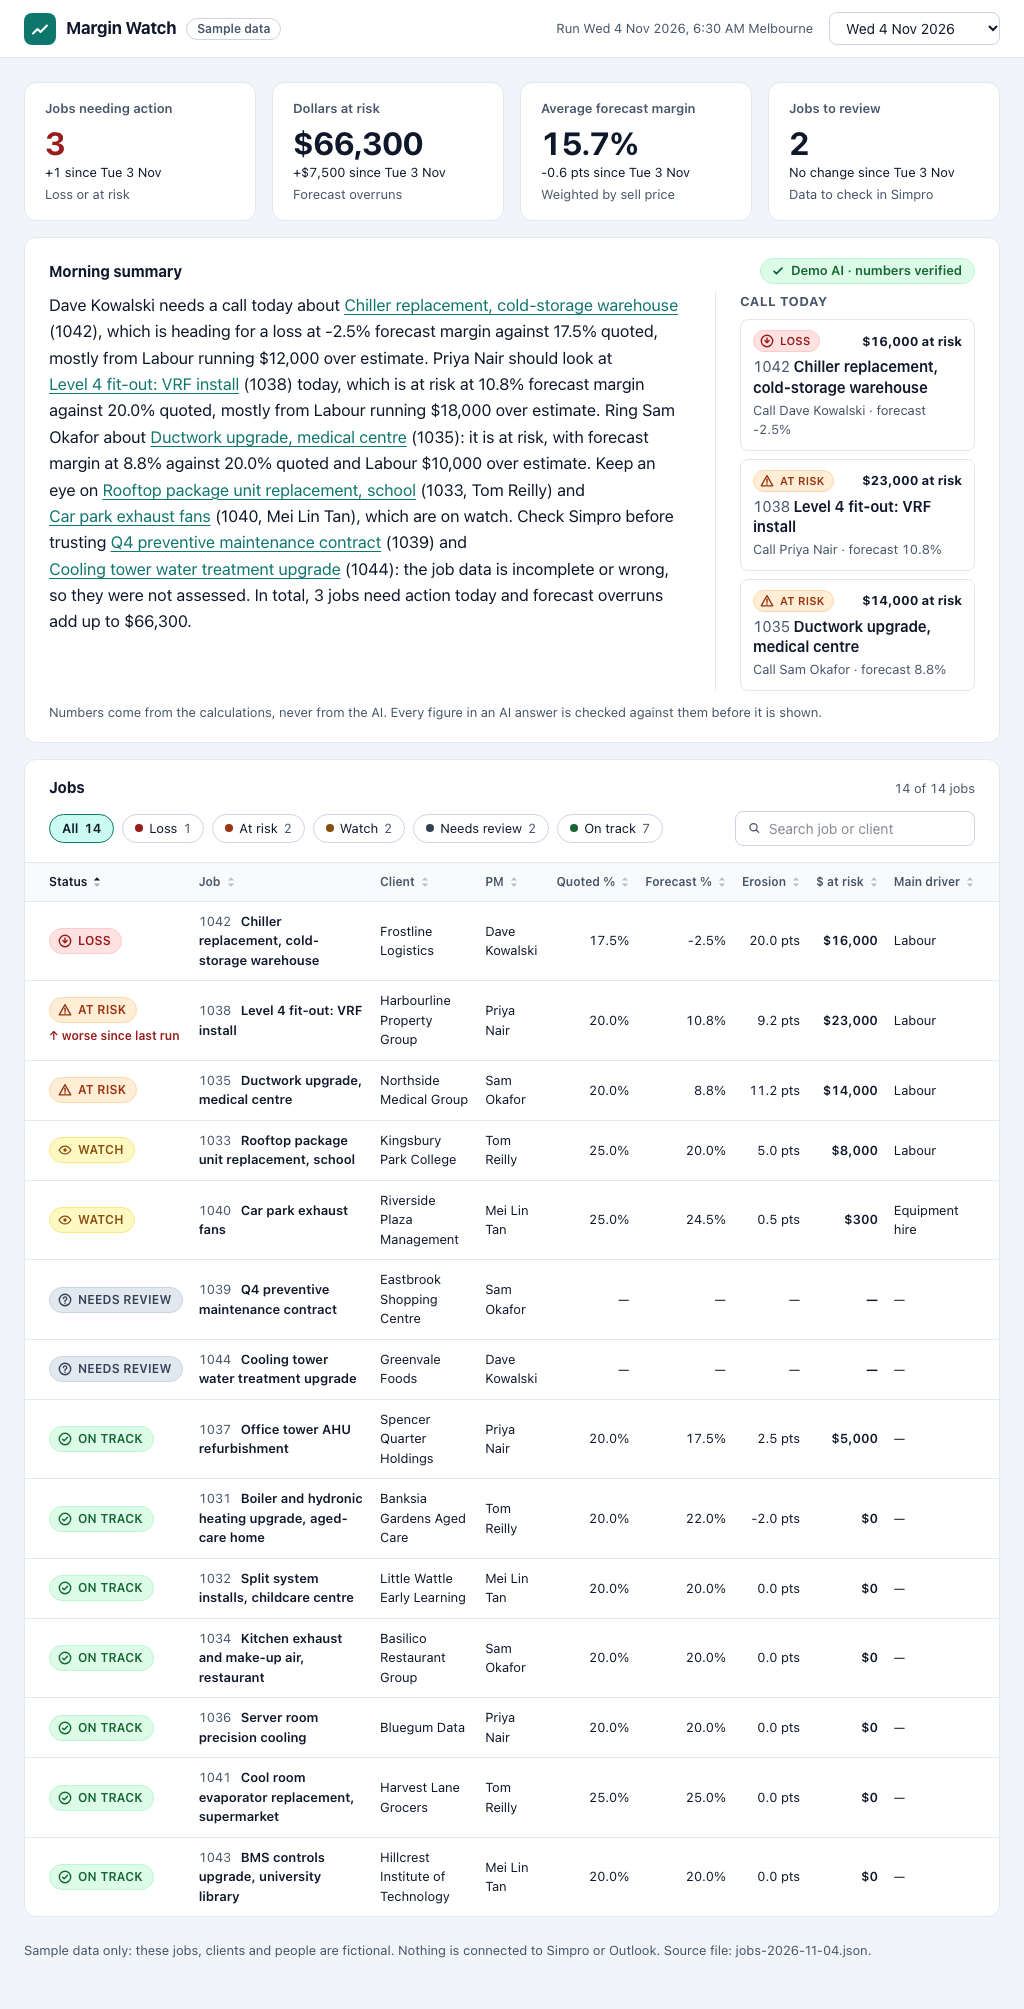
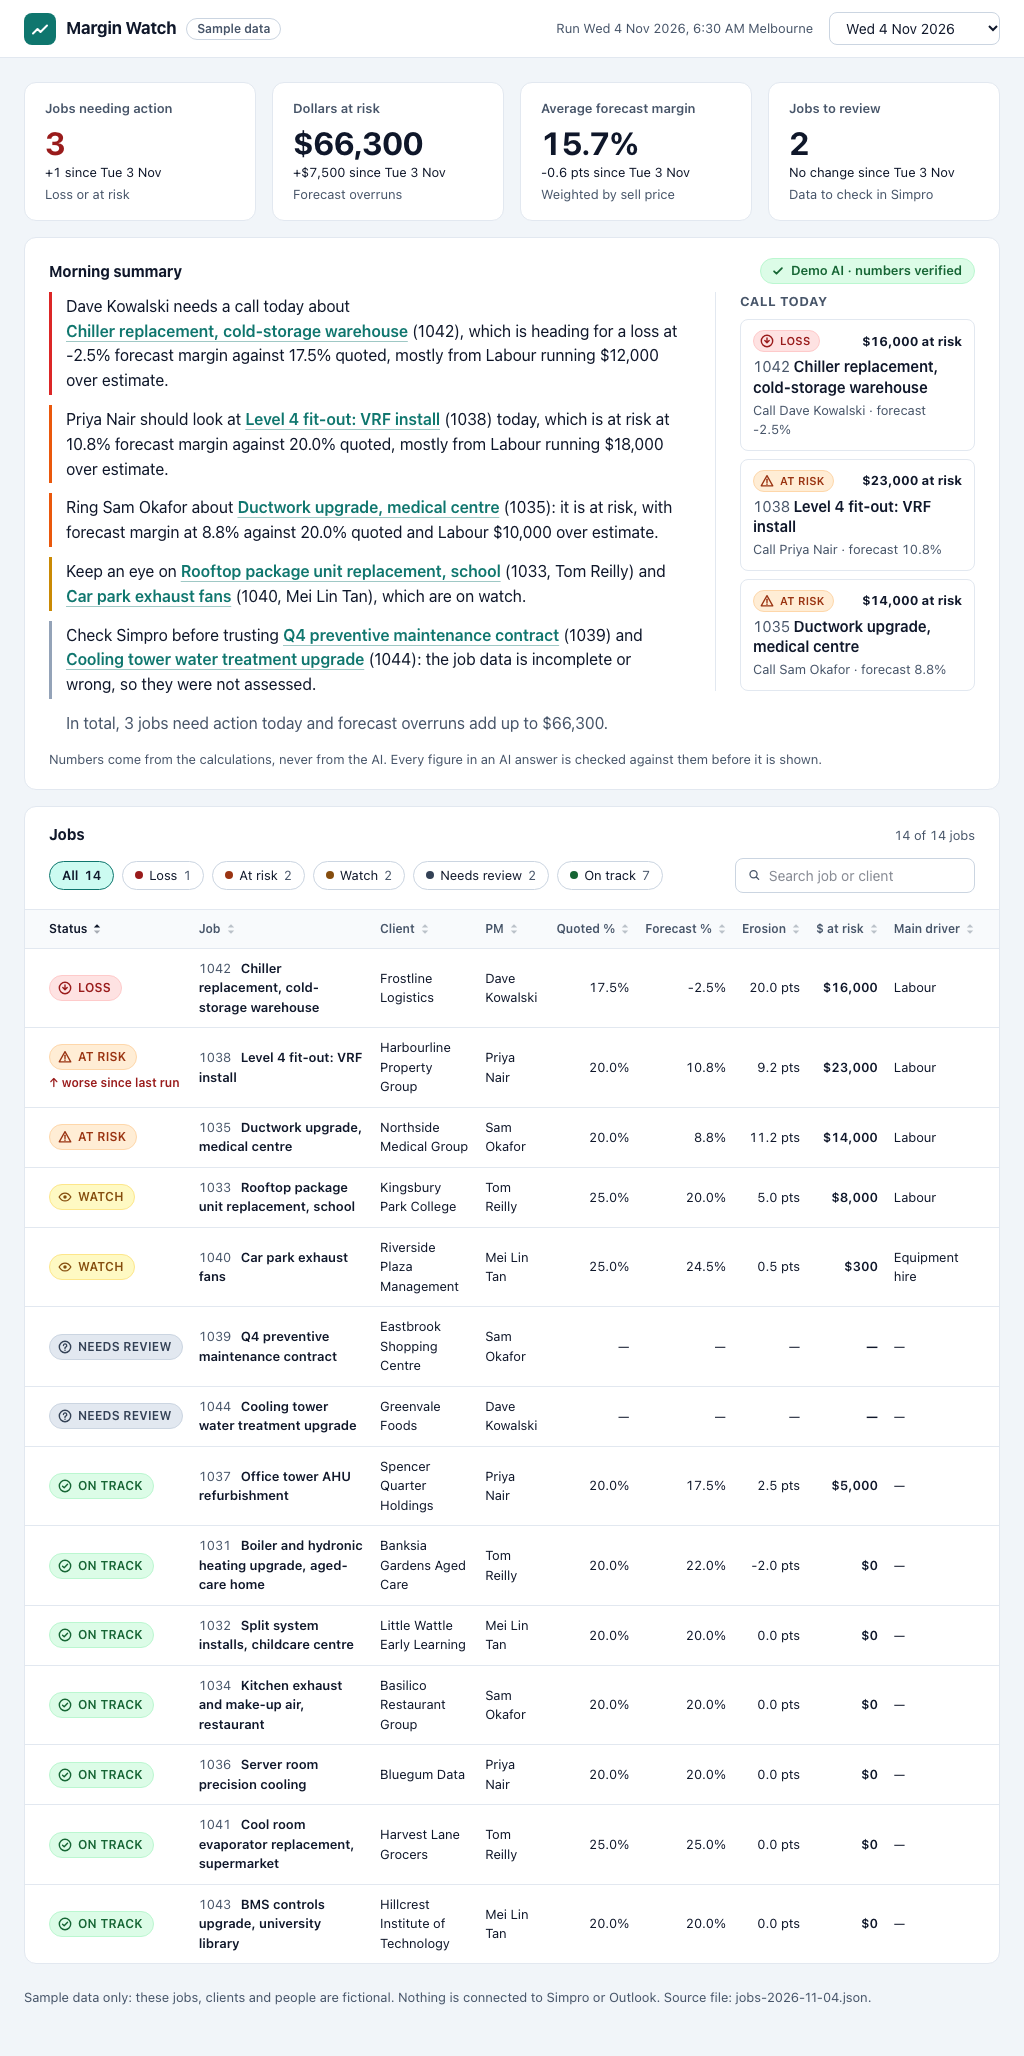
feat: easier-to-read morning summary (AC-91)
The summary now reads as short rows, one per job or topic, each with a
status-coloured edge; quieter links; muted closing line. Text, numbers and
verification are unchanged.

diff --git a/dashboard/src/lib/summary.ts b/dashboard/src/lib/summary.ts
@@ -52,30 +52,35 @@ export function fallbackExplanation(summary: Summary): string | null {
 	return FALLBACK_EXPLANATIONS[summary.fallback_reason ?? ''] ?? null;
 }
 
+/** Split `text` into text and job-link segments. Each job is linked once (tracked in `linked`). */
+function linkSegments(text: string, flagged: Job[], linked: Set<string>): Segment[] {
+	const hits: { start: number; end: number; job: Job }[] = [];
+	for (const job of flagged) {
+		if (linked.has(job.id)) continue;
+		const start = text.indexOf(job.name);
+		if (start >= 0) hits.push({ start, end: start + job.name.length, job });
+	}
+	hits.sort((a, b) => a.start - b.start || b.end - a.end);
+	const segments: Segment[] = [];
+	let cursor = 0;
+	for (const hit of hits) {
+		if (hit.start < cursor) continue;
+		if (hit.start > cursor) segments.push({ kind: 'text', text: text.slice(cursor, hit.start) });
+		segments.push({ kind: 'job', text: hit.job.name, jobId: hit.job.id });
+		linked.add(hit.job.id);
+		cursor = hit.end;
+	}
+	if (cursor < text.length) segments.push({ kind: 'text', text: text.slice(cursor) });
+	return segments;
+}
+
+const flaggedJobs = (jobs: Job[]) => jobs.filter((j) => j.status !== 'ON_TRACK');
+
 /** Paragraphs (split on blank lines) with each flagged job's name as a link segment. */
 export function summaryParagraphs(text: string, jobs: Job[]): Segment[][] {
-	const flagged = jobs.filter((j) => j.status !== 'ON_TRACK');
+	const flagged = flaggedJobs(jobs);
 	const linked = new Set<string>();
-	return text.split('\n\n').map((paragraph) => {
-		const hits: { start: number; end: number; job: Job }[] = [];
-		for (const job of flagged) {
-			if (linked.has(job.id)) continue;
-			const start = paragraph.indexOf(job.name);
-			if (start >= 0) hits.push({ start, end: start + job.name.length, job });
-		}
-		hits.sort((a, b) => a.start - b.start || b.end - a.end);
-		const segments: Segment[] = [];
-		let cursor = 0;
-		for (const hit of hits) {
-			if (hit.start < cursor) continue;
-			if (hit.start > cursor) segments.push({ kind: 'text', text: paragraph.slice(cursor, hit.start) });
-			segments.push({ kind: 'job', text: hit.job.name, jobId: hit.job.id });
-			linked.add(hit.job.id);
-			cursor = hit.end;
-		}
-		if (cursor < paragraph.length) segments.push({ kind: 'text', text: paragraph.slice(cursor) });
-		return segments;
-	});
+	return text.split('\n\n').map((paragraph) => linkSegments(paragraph, flagged, linked));
 }
 
 export interface SummaryItem {
@@ -83,7 +88,21 @@ export interface SummaryItem {
 	tone: Job['status'] | null;
 }
 
+/** A sentence ends at . ! or ? followed by whitespace, so "17.5%" and "$12,000.50" stay whole. */
+function sentences(paragraph: string): string[] {
+	return paragraph.split(/(?<=[.!?])\s+(?=\S)/);
+}
+
 /** Reading rows: one per paragraph, or one per sentence when the text is a single paragraph. */
 export function summaryItems(text: string, jobs: Job[]): SummaryItem[] {
-	throw new Error(`not implemented: ${text.length} ${jobs.length}`);
+	const flagged = flaggedJobs(jobs);
+	const status = new Map(jobs.map((j) => [j.id, j.status]));
+	const paragraphs = text.split('\n\n');
+	const chunks = paragraphs.length > 1 ? paragraphs : sentences(paragraphs[0]);
+	const linked = new Set<string>();
+	return chunks.map((chunk) => {
+		const segments = linkSegments(chunk, flagged, linked);
+		const first = segments.find((s) => s.kind === 'job');
+		return { segments, tone: first?.kind === 'job' ? (status.get(first.jobId) ?? null) : null };
+	});
 }

diff --git a/dashboard/src/lib/components/SummaryCard.svelte b/dashboard/src/lib/components/SummaryCard.svelte
@@ -1,6 +1,6 @@
 <script lang="ts">
 	import { formatMoney, formatPct } from '../format';
-	import { fallbackExplanation, summaryBadge, summaryParagraphs } from '../summary';
+	import { fallbackExplanation, summaryBadge, summaryItems } from '../summary';
 	import type { Run } from '../types';
 	import StatusPill from './StatusPill.svelte';
 
@@ -10,7 +10,7 @@
 	}: { run: Run; onOpenJob: (jobId: string, trigger: HTMLElement) => void } = $props();
 
 	const badge = $derived(summaryBadge(run.summary));
-	const paragraphs = $derived(summaryParagraphs(run.summary.text, run.jobs));
+	const items = $derived(summaryItems(run.summary.text, run.jobs));
 	const why = $derived(fallbackExplanation(run.summary));
 	const calls = $derived(run.jobs.filter((j) => j.status === 'LOSS' || j.status === 'AT_RISK'));
 </script>
@@ -60,19 +60,19 @@
 			</ul>
 		{/if}
 	</aside>
-	<div class="text">
-		{#each paragraphs as segments, i (i)}
-			<p>
-				{#each segments as segment, j (j)}{#if segment.kind === 'job'}<button
+	<ul class="text" aria-label="Summary">
+		{#each items as item, i (i)}
+			<li class="row" data-testid="summary-row" data-tone={item.tone ?? 'none'}>
+				{#each item.segments as segment, j (j)}{#if segment.kind === 'job'}<button
 							type="button"
 							class="job-link"
 							data-testid="summary-link-{segment.jobId}"
 							onclick={(event) => onOpenJob(segment.jobId, event.currentTarget)}
 							>{segment.text}</button
 						>{:else}{segment.text}{/if}{/each}
-			</p>
+			</li>
 		{/each}
-	</div>
+	</ul>
 	</div>
 	{#if why}
 		<details class="why" data-testid="summary-why">
@@ -135,11 +135,35 @@
 	}
 	.text {
 		max-width: 70ch;
-		font-size: 16.5px;
-		line-height: 1.6;
+		margin: 0;
+		padding: 0;
+		list-style: none;
+		display: grid;
+		gap: 10px;
+		font-size: 16px;
+		line-height: 1.55;
 	}
-	.text p {
-		margin: 0 0 10px;
+	/* One short row per job or topic; the left edge carries the status colour (the words carry
+	   the meaning, so colour is never the only signal). */
+	.row {
+		padding: 2px 0 2px 14px;
+		border-left: 3px solid var(--row-edge, var(--border-strong));
+	}
+	.row[data-tone='LOSS'] {
+		--row-edge: var(--loss-strong);
+	}
+	.row[data-tone='AT_RISK'] {
+		--row-edge: var(--risk-strong);
+	}
+	.row[data-tone='WATCH'] {
+		--row-edge: var(--watch-strong);
+	}
+	.row[data-tone='NEEDS_REVIEW'] {
+		--row-edge: var(--review-strong);
+	}
+	.row[data-tone='none'] {
+		--row-edge: transparent;
+		color: var(--muted);
 	}
 	.job-link {
 		font: inherit;
@@ -147,15 +171,17 @@
 		background: none;
 		border: 0;
 		padding: 0;
+		font-weight: 600;
 		text-decoration: underline;
 		text-decoration-thickness: 1px;
-		text-underline-offset: 3px;
+		text-decoration-color: color-mix(in srgb, currentColor 40%, transparent);
+		text-underline-offset: 4px;
 		cursor: pointer;
 		text-align: left;
 	}
 	.job-link:hover {
 		color: var(--accent-hover);
-		text-decoration-thickness: 2px;
+		text-decoration-color: currentColor;
 	}
 	.why {
 		margin-top: 4px;
@@ -290,7 +316,7 @@
 			padding: 16px;
 		}
 		.text {
-			font-size: 16px;
+			font-size: 15px;
 		}
 	}
 </style>

diff --git a/dashboard/src/routes/layout.css b/dashboard/src/routes/layout.css
@@ -27,6 +27,9 @@
 	--loss-fg: #991b1b;
 	--loss-border: #fecaca;
 	--loss-strong: #dc2626;
+	--risk-strong: #ea580c;
+	--watch-strong: #ca8a04;
+	--review-strong: #94a3b8;
 	--risk-bg: #ffedd5;
 	--risk-fg: #9a3412;
 	--risk-border: #fed7aa;
@@ -73,6 +76,9 @@
 		--loss-fg: #fecaca;
 		--loss-border: #7f1d1d;
 		--loss-strong: #f87171;
+		--risk-strong: #fb923c;
+		--watch-strong: #facc15;
+		--review-strong: #64748b;
 		--risk-bg: #4a1d0a;
 		--risk-fg: #fed7aa;
 		--risk-border: #7c2d12;

diff --git a/docs/progress.md b/docs/progress.md
@@ -14,6 +14,7 @@
 | 6b. Dashboard (green) | done | Vitest 27/27, Playwright 14/14, agent 176 | see `git log` (feat: dashboard) | First green run: 12/14 E2E; the 2 axe failures were real (scrollable drawer body not focusable; dark pressed-chip count contrast) and were fixed in the product. Two visual review rounds (docs/visual-review.md): added "Call today", fixed a 1024 px page overflow, tightened the table at ≤1100 px. `npm run check` 0 errors 0 warnings; `eslint --max-warnings 0` clean. No approved test changed (all 4 tags). |
 | 7. CI, docs, demo | done | 176 + 27 + 14 | see `git log` (docs: README, CI…) | `.github/workflows/ci.yml` (agent + dashboard jobs, uv/npm caching, Playwright report artifact on failure; YAML validated locally, not run since there's no remote). `Makefile` (`test`, `demo`, `clean`, plus `runs`/`deps`). `make test` passed end to end. `make clean && make demo` from an empty `output/` produced both runs, synced, built and served on :4173, printing the Excel and email paths. Removed the adapter-static fallback that overwrote the prerendered index (build warning). `docs/scheduling.md`, `README.md`. |
 | Final. Hand-over and report | done | 176 + 27 + 14 | see `git log` (docs: manual QA…) | Ran `make demo` and walked the real app with Playwright (no fixtures): every value in the two documents was copied from it. `docs/manual-qa-checklist.md` (40 steps), `docs/loom-script.md` (447 spoken words, about 3 minutes). |
+| After hand-over | done | 176 + 30 + 15 | see `git log` | Private GitHub repo `zeddrix/margin-watch`; first CI run green on both jobs. CI actions bumped (checkout v7, setup-uv v10). AC-91 (summary as toned rows) tagged `tests-approved-7`; red: Vitest 3 + Playwright 1 "not implemented"/missing rows; then green. Visual review round 3 in docs/visual-review.md. `make test` passes; all 5 tags OK. |
 
 ## Phase 2 self-review notes
 

diff --git a/docs/visual-review.md b/docs/visual-review.md
@@ -19,6 +19,14 @@ Screenshots in `docs/screenshots/` (taken with `dashboard/scripts/screenshots.mj
 | 6 | At 1024 px the KPI tiles dropped to 2 × 2 although 4 fit, pushing the table down. | Tiles go 2 × 2 only below 900 px. |
 | 7 | At 1024 px the table still scrolled inside its card and "Main driver" was clipped. | At ≤ 1100 px: 13 px table text, a narrower job column, PM may wrap, 8 px cell padding. Measured afterwards: the table's scroll width equals its client width at 1024 (974 = 974) and 1280 (1190 = 1190); no page overflow at 390. |
 
+## Round 3 (after hand-over, from Zeddrix's feedback: "the morning summary looks exhausting")
+
+| # | Problem | Fix |
+|---|---|---|
+| 8 | The demo AI's summary was one dense 6-sentence paragraph with 10 underlined links; nothing stood out. | AC-91: the summary renders as short rows: one per sentence for a single-paragraph AI answer, one per paragraph for the template. No words or numbers change, so verification is unaffected. Each row has a 3px left edge in the status colour of its first linked job (red loss, orange at risk, yellow watch, grey review), and the closing "In total…" line is muted. Rows are spaced 10px apart at 16px text (15px on phones). |
+| 9 | Ten full-strength underlines made the text noisy. | Job links are semi-bold teal with a faint underline (40% of the link colour) that turns solid on hover; still underlined, so they aren't marked by colour alone. |
+| 10 | In dark mode the first edge colours were wrong: "at risk" came out near-white and "watch" muddy brown. | New `--risk-strong`, `--watch-strong` and `--review-strong` tokens per theme, used only for the edges. axe is still clean in both themes. |
+
 ## Checked and fine
 
 - Status always shows icon + word + colour; numbers right-aligned with tabular figures; $ at risk bold.

diff --git a/docs/decisions.md b/docs/decisions.md
@@ -65,3 +65,9 @@
 43. **`make demo` simulates the two scheduled 6:30 AM runs** (`--generated-at <date>T06:30:00+11:00`) so the dashboard, QA checklist and Loom script show the same stamps every time.
 44. **`scripts/check_frozen_tests.py`** (new, not a guardrail file) runs in `make test` and CI: no test file that existed at any `tests-approved-*` tag may differ from the tag.
 45. **CI uses Node 24 LTS and Python 3.12 via uv**, `uv sync --frozen` and `npm ci`, fetches tags for the frozen-test check, and uploads the Playwright report on failure.
+
+## After hand-over
+
+46. **The summary renders as short toned rows (AC-91) instead of one paragraph.** · Zeddrix found the single-paragraph demo summary exhausting to read. Splitting is purely presentational, so the verified text and the email are untouched. · Alternative: change the demo model to write paragraphs (would make the committed fixtures stale).
+47. **CI actions bumped to `actions/checkout@v7` and `astral-sh/setup-uv@v10`** (both Node 24), clearing GitHub's Node 20 deprecation warning. `setup-node@v4` and `upload-artifact@v4` weren't flagged and stay as they are.
+48. **The GitHub repo is private** (`zeddrix/margin-watch`). · The Loom script and OVERVIEW name a real person and the interview context. CI runs on private repos too.
